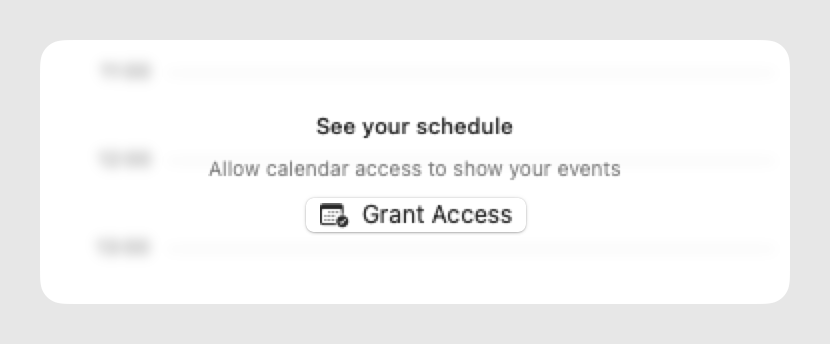
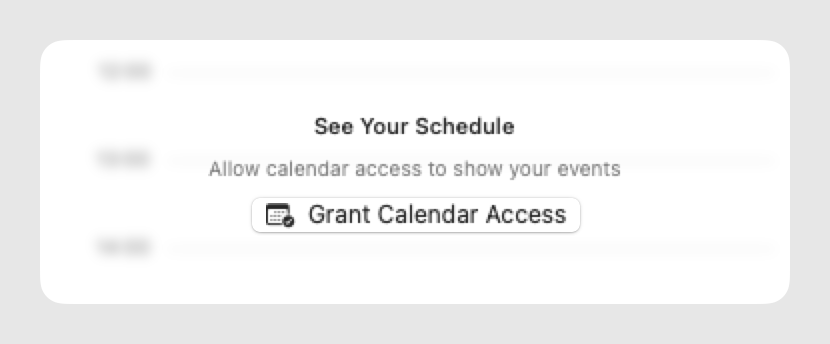
chore: update access prompt previews to show label customization

Changed region(s): [[0.3012, 0.5814, 0.6928, 0.6977], [0.3614, 0.3198, 0.6325, 0.407]]

diff --git a/Sources/RenderPreviews/main.swift b/Sources/RenderPreviews/main.swift
@@ -235,13 +235,18 @@ func accessControlPreviews() -> [(name: String, view: AnyView, size: CGSize)] {
 		(
 			"access-prompt-compact",
 			AnyView(
-				AccessPromptView.calendar(style: .compact) {}
-					.frame(width: 280)
-					.padding(16)
-					.background(.background)
-					.clipShape(RoundedRectangle(cornerRadius: 12))
-					.padding(20)
-					.background(Color(nsColor: .windowBackgroundColor))
+				AccessPromptView.calendar(
+					style: .compact,
+					title: "Check for conflicts",
+					message: "See if this time works with your schedule",
+					buttonLabel: "Enable Calendar"
+				) {}
+				.frame(width: 280)
+				.padding(16)
+				.background(.background)
+				.clipShape(RoundedRectangle(cornerRadius: 12))
+				.padding(20)
+				.background(Color(nsColor: .windowBackgroundColor))
 			),
 			CGSize(width: 352, height: 180)
 		),
@@ -263,7 +268,12 @@ func accessControlPreviews() -> [(name: String, view: AnyView, size: CGSize)] {
 				CompactTimelineView(items: [], heightMode: .fixed(hours: 2))
 					.frame(width: 375, height: 132)
 					.accessRestricted(true) {
-						AccessPromptView.calendar(style: .compact) {}
+						AccessPromptView.calendar(
+							style: .compact,
+							title: "See Your Schedule",
+							message: "Allow calendar access to show your events",
+							buttonLabel: "Grant Calendar Access"
+						) {}
 					}
 					.clipShape(RoundedRectangle(cornerRadius: 12))
 					.background(.background, in: RoundedRectangle(cornerRadius: 12))
